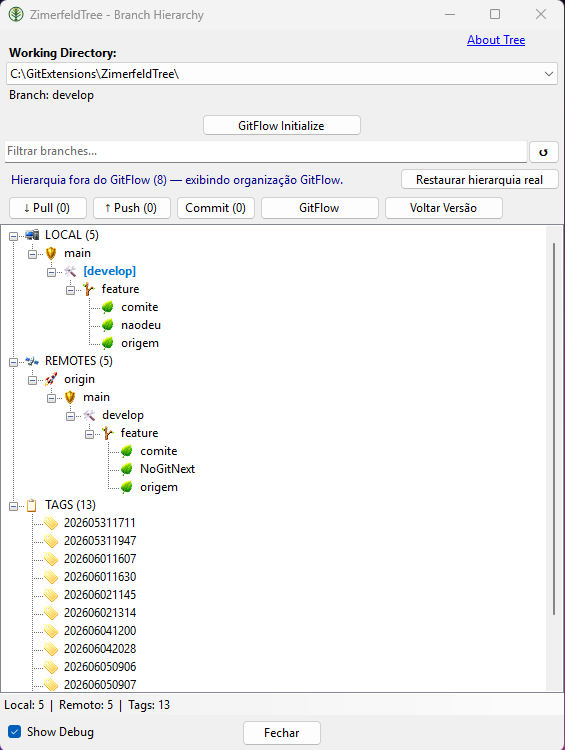
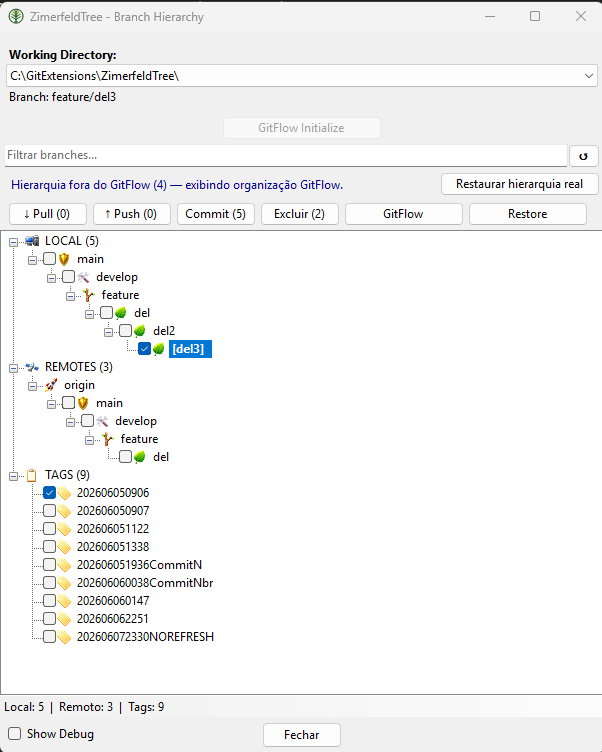
Corrige documentação
- Corrige restore saved expand/collapse estado ONLY quando native tratar exists. During
- Corrige double, partial restore (constructor sem tratar + Shown) que lost saved estado

diff --git a/src/GitExtensions.ZimerfeldTree/BranchHierarchyForm.cs b/src/GitExtensions.ZimerfeldTree/BranchHierarchyForm.cs
@@ -349,7 +349,11 @@ public sealed class BranchHierarchyForm : Form
             var localMap  = _gitFlowForced ? _svc.OverlayBasedOn(BuildGitFlowParentMap(_localBranches)) : _localParentMap;
             var remoteMap = _gitFlowForced ? BuildGitFlowRemoteParentMap(_remoteBranches)               : _remoteParentMap;
             RebuildAllSections(_txtFilter?.Text.Trim() ?? string.Empty, localMap, remoteMap);
-            ExpandRoots();
+            // Restore the saved expand/collapse state ONLY when the native handle exists. During the
+            // first load (InitialLoadSync, in the constructor) there is no handle yet, so node.Expand()
+            // /CollapseAll() would not stick; the Shown handler restores it once instead. This avoids a
+            // double, partial restore (constructor without handle + Shown) that lost the saved state.
+            if (_tree.IsHandleCreated) ExpandRoots();
             UpdateStatus();
             UpdateBranchLabel();
             UpdatePullPushButtons();

diff --git a/README.md b/README.md
@@ -2,11 +2,11 @@
 
 Plugin para [GitExtensions](https://gitextensions.github.io/) que exibe branches **hierarquicamente** em estrutura de árvore, mostrando branches filhas.
 
-![ZimerfeldTree - Branch Hierarchy](https://raw.githubusercontent.com/zimerfeld/ZimerfeldTree/develop/ScreenshotBranchHierarchy.png?v=1.0.251)
+![ZimerfeldTree - Branch Hierarchy](https://raw.githubusercontent.com/zimerfeld/ZimerfeldTree/develop/ScreenshotBranchHierarchy.png?v=1.0.253)
 
-**Versão atual: 1.0.251**
+**Versão atual: 1.0.253**
 
-[...More information](https://www.nuget.org/packages/GitExtensions.ZimerfeldTree/1.0.251 "More information about GitExtensions.ZimerfeldTree package")
+[...More information](https://www.nuget.org/packages/GitExtensions.ZimerfeldTree/1.0.253 "More information about GitExtensions.ZimerfeldTree package")
 
 ---
 
@@ -147,7 +147,7 @@ Equivale a executar `git config <chave> <valor>` para cada linha. Útil para ini
 
 ### Janela Restore
 
-![Janela Restore](https://raw.githubusercontent.com/zimerfeld/ZimerfeldTree/develop/ScreenshotRestore.png?v=1.0.251)
+![Janela Restore](https://raw.githubusercontent.com/zimerfeld/ZimerfeldTree/develop/ScreenshotRestore.png?v=1.0.253)
 
 Abre ao clicar em **Restore** — janela modal posicionada ao lado de ZimerfeldTree, com três operações para resgatar estados do histórico git:
 
@@ -193,7 +193,7 @@ Se a branch selecionada não for a atual, o plugin executa `git checkout <branch
 
 ### Janela GitFlow — comportamento geral
 
-![Janela GitFlow](https://raw.githubusercontent.com/zimerfeld/ZimerfeldTree/develop/ScreenshotGitFlow.png?v=1.0.251)
+![Janela GitFlow](https://raw.githubusercontent.com/zimerfeld/ZimerfeldTree/develop/ScreenshotGitFlow.png?v=1.0.253)
 
 - Ao fechar a janela GitFlow, a janela ZimerfeldTree é reposicionada automaticamente ao **centro da tela**. O fechamento **não** dispara um novo refresh (a árvore já foi atualizada ao vivo) — exceto após um **Finish de release**, em que a árvore é recarregada uma vez para focar a nova **tag**. O GitExtensions **não** é trazido para frente ao fechar
 - Após um **Start** bem-sucedido, o painel "Manage existing branches" é pré-selecionado automaticamente no mesmo **Type** e na branch recém-criada — válido para feature, release, hotfix, bugfix e support
@@ -253,7 +253,7 @@ Quando um comando git falha, o resultado é exibido na janela e um aviso é most
 
 ### Janela Restore — comportamento geral
 
-![Janela Restore](https://raw.githubusercontent.com/zimerfeld/ZimerfeldTree/develop/ScreenshotRestore.png?v=1.0.251)
+![Janela Restore](https://raw.githubusercontent.com/zimerfeld/ZimerfeldTree/develop/ScreenshotRestore.png?v=1.0.253)
 
 - Abre ao clicar em **Restore** na janela ZimerfeldTree
 - Janela **modal**, posicionada ao lado de ZimerfeldTree com ambas centralizadas na tela — mesmo comportamento da janela GitFlow